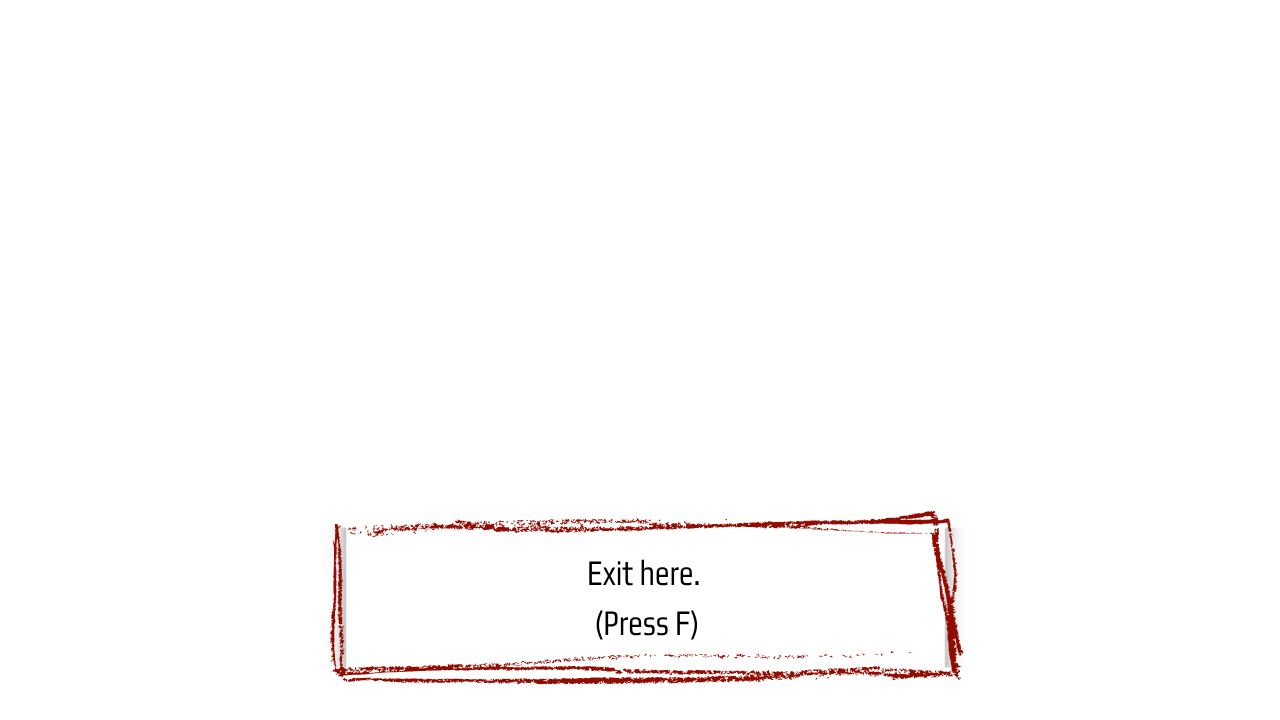
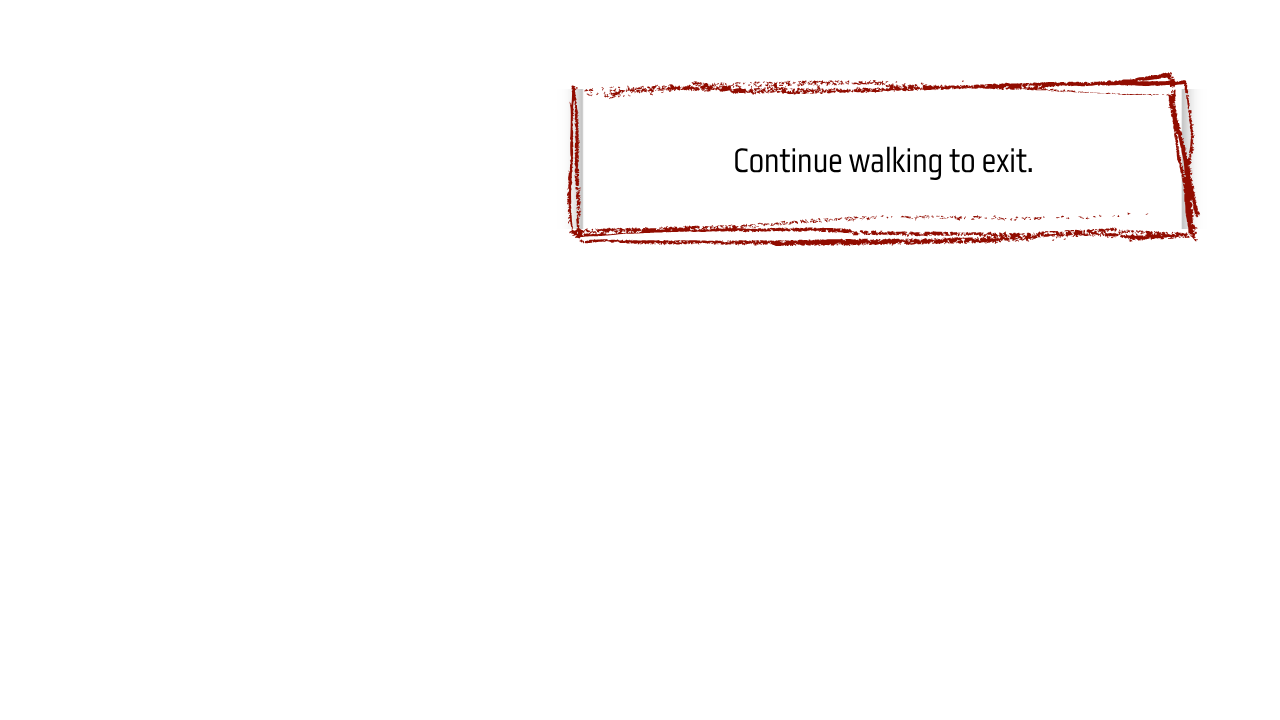
fixed pawn shop (room is fully ready to be used)

Changed region(s): [[0.25, 0.7028, 0.75, 0.9472], [0.4375, 0.0917, 0.9375, 0.3667], [0.5625, 0.2139, 0.8125, 0.2444]]

diff --git a/core/src/main/java/apcs/VilleFantome/PawnShopScreen.java b/core/src/main/java/apcs/VilleFantome/PawnShopScreen.java
@@ -25,11 +25,13 @@ public class PawnShopScreen implements Screen {
     private enum State { RUNNING, PAUSED }
     private State state = State.RUNNING;
 
-    private Texture pawnShop1, pawnShop2, pauseBg, resumeTex, quitTex;
+    private Texture pawnShop1, pawnShop2, pauseBg, resumeTex, quitTex, exitSign;
     private ImageButton resumeButton, quitButton;
 
     private int currentRoom = 1;
-    private Rectangle playerBounds;
+    private Rectangle playerBounds, exitHitbox;
+    private boolean showExitSign = false;
+    
     private float movementDelayTimer = 0f;
     private final float MAX_DELAY = 0.04f;
     
@@ -53,15 +55,20 @@ public class PawnShopScreen implements Screen {
         pauseBg = new Texture("pause_screen.png");
         resumeTex = new Texture("resume_button.png");
         quitTex = new Texture("quitbutton.png");
+        exitSign = new Texture("exitsign.png");
 
-        player = new Player(400, -100); 
+        // Spawn on the left side of the first room
+        player = new Player(20, -100); 
         currentRoom = 1; 
         
-        // Boost size and speed together
         player.setDrawSize(1000, 1000);
         player.setSpeed(335.0f); 
 
         playerBounds = new Rectangle();
+        
+        // Hitbox for the exit sign: only the leftmost 20 pixels
+        exitHitbox = new Rectangle(1000, 0, 280, 720); 
+
         setupPauseMenu();
     }
 
@@ -105,8 +112,16 @@ public class PawnShopScreen implements Screen {
 
         batch.setProjectionMatrix(stage.getCamera().combined);
         batch.begin();
+        
+        // Draw background based on current room
         batch.draw(currentRoom == 1 ? pawnShop1 : pawnShop2, 0, 0, 1280, 720);
+        
         player.draw(batch);
+
+        // Layer the exit sign over the entire screen if triggered in Room 2
+        if (currentRoom == 2 && showExitSign) {
+            batch.draw(exitSign, 0, 0, 1280, 720); 
+        }
 
         if (state == State.PAUSED) batch.draw(pauseBg, 0, 0, 1280, 720);
         batch.end();
@@ -118,7 +133,6 @@ public class PawnShopScreen implements Screen {
     }
 
     private void updateGame(float delta) {
-        // Handle spawn delay
         if (movementDelayTimer < MAX_DELAY) {
             movementDelayTimer += delta;
             return;
@@ -127,23 +141,32 @@ public class PawnShopScreen implements Screen {
         player.update(delta);
         playerBounds.set(player.x + 170, player.y + 40, 140, 260);
 
+        showExitSign = false;
+
         if (currentRoom == 1) {
             if (player.x < -300) player.x = -300; 
-            if (player.x >= 1150) { 
+            
+            // GO TO ROOM 2
+            if (player.x >= 1100) { 
                 currentRoom = 2;
-                player.x = -282;    
-                movementDelayTimer = 0f;
+                player.x = -270;    
             }
         } 
         else if (currentRoom == 2) {
-            if (player.x <= -280) { 
-                currentRoom = 1;
-                player.x = 1100;    
-                movementDelayTimer = 0f;
+            // SHOW EXIT SIGN (When near the right side)
+            if (playerBounds.overlaps(exitHitbox)) {
+                showExitSign = true;
             }
 
-            // Automatic Exit to Town
-            if (player.x > 930) { 
+            // RETURN TO ROOM 1 (Walking Left)
+            if (player.x <= -275) { 
+                currentRoom = 1;
+                player.x = 850; // Set this slightly lower than the Room 2 trigger
+            }
+
+            // RETURN TO TOWN (Walking Right)
+            // Increased this to 1150 so it doesn't trigger accidentally
+            if (player.x > 900) { 
                 game.setScreen(new GameScreen(game, true, returnX, returnY));
             }
         }
@@ -156,6 +179,6 @@ public class PawnShopScreen implements Screen {
     @Override public void dispose() {
         batch.dispose(); stage.dispose(); inventory.dispose(); player.dispose();
         pawnShop1.dispose(); pawnShop2.dispose(); pauseBg.dispose();
-        resumeTex.dispose(); quitTex.dispose();
+        resumeTex.dispose(); quitTex.dispose(); exitSign.dispose();
     }
 }

diff --git a/core/src/main/java/apcs/VilleFantome/GameScreen.java b/core/src/main/java/apcs/VilleFantome/GameScreen.java
@@ -138,55 +138,58 @@ public class GameScreen implements Screen {
     }
 
     @Override
-    public void render(float delta) {
-        if (Gdx.input.isKeyJustPressed(Input.Keys.Y)) showControls = !showControls;
-        if (fadeAlpha > 0) fadeAlpha = Math.max(0, fadeAlpha - delta * fadeSpeed);
+public void render(float delta) {
+    if (Gdx.input.isKeyJustPressed(Input.Keys.Y)) showControls = !showControls;
+    if (fadeAlpha > 0) fadeAlpha = Math.max(0, fadeAlpha - delta * fadeSpeed);
 
-        if (Gdx.input.isKeyJustPressed(Input.Keys.ESCAPE)) {
-            state = (state == State.RUNNING) ? State.PAUSED : State.RUNNING;
-            if (state == State.PAUSED) { 
-                Gdx.input.setInputProcessor(stage); 
-                typeSound.pause(); 
-            } else { 
-                Gdx.input.setInputProcessor(null); 
-                typeSound.resume(); 
-            }
+    if (Gdx.input.isKeyJustPressed(Input.Keys.ESCAPE)) {
+        state = (state == State.RUNNING) ? State.PAUSED : State.RUNNING;
+        if (state == State.PAUSED) { 
+            Gdx.input.setInputProcessor(stage); 
+            typeSound.pause(); 
+        } else { 
+            Gdx.input.setInputProcessor(null); 
+            typeSound.resume(); 
         }
-
-        if (state == State.RUNNING) updateGame(delta);
-
-        Gdx.gl.glClearColor(0, 0, 0, 1);
-        Gdx.gl.glClear(GL20.GL_COLOR_BUFFER_BIT);
-
-        batch.setProjectionMatrix(stage.getCamera().combined);
-        batch.begin();
-
-        if (currentDialogueIndex < dialogueScreens.length) {
-            Texture currentTex = showControls ? dialogueScreens[5] : dialogueScreens[currentDialogueIndex];
-            batch.draw(currentTex, 0, 0, 1280, 720);
-        } else {
-            batch.draw(currentArea == 1 ? background1 : background2, 0, 0, 1280, 720);
-            player.draw(batch);
-            if (showEnterSign) {
-                batch.draw(enterSign, 350, 300, 800, 800);
-            }
-        }
-
-        if (state == State.PAUSED) batch.draw(pauseBg, 0, 0, 1280, 720);
-
-        if (fadeAlpha > 0) {
-            batch.setColor(0, 0, 0, fadeAlpha);
-            batch.draw(pauseBg, 0, 0, 1280, 720);
-            batch.setColor(1, 1, 1, 1);
-        }
-        batch.end();
-
-        inventory.handleInput();
-        inventory.render(delta);
-
-        if (state == State.PAUSED) { stage.act(delta); stage.draw(); }
     }
 
+    if (state == State.RUNNING) updateGame(delta);
+
+    Gdx.gl.glClearColor(0, 0, 0, 1);
+    Gdx.gl.glClear(GL20.GL_COLOR_BUFFER_BIT);
+
+    batch.setProjectionMatrix(stage.getCamera().combined);
+    batch.begin();
+
+    if (currentDialogueIndex < dialogueScreens.length) {
+        Texture currentTex = showControls ? dialogueScreens[5] : dialogueScreens[currentDialogueIndex];
+        batch.draw(currentTex, 0, 0, 1280, 720);
+    } else {
+        batch.draw(currentArea == 1 ? background1 : background2, 0, 0, 1280, 720);
+        player.draw(batch);
+        
+        // --- UPDATED THIS SECTION ---
+        if (showEnterSign) {
+            // Draw starting at bottom-left (0,0) and stretching to full screen (1280x720)
+            batch.draw(enterSign, 0, 0, 1280, 720); 
+        }
+        // -----------------------------
+    }
+
+    if (state == State.PAUSED) batch.draw(pauseBg, 0, 0, 1280, 720);
+
+    if (fadeAlpha > 0) {
+        batch.setColor(0, 0, 0, fadeAlpha);
+        batch.draw(pauseBg, 0, 0, 1280, 720);
+        batch.setColor(1, 1, 1, 1);
+    }
+    batch.end();
+
+    inventory.handleInput();
+    inventory.render(delta);
+
+    if (state == State.PAUSED) { stage.act(delta); stage.draw(); }
+}
     private void updateGame(float delta) {
         if (showControls) return;
 
